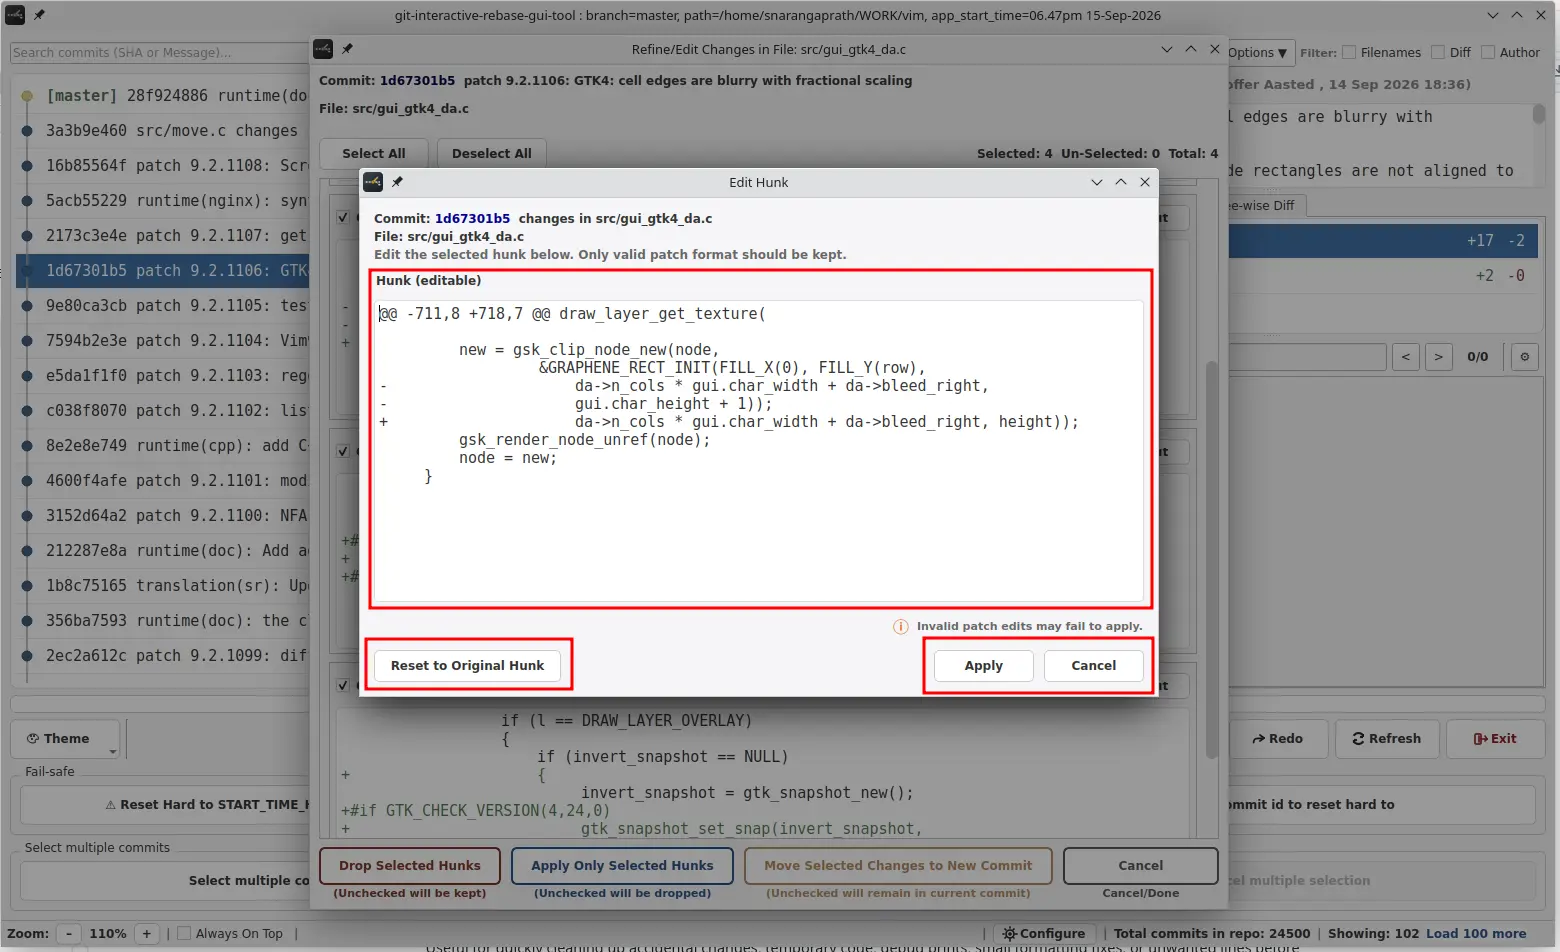
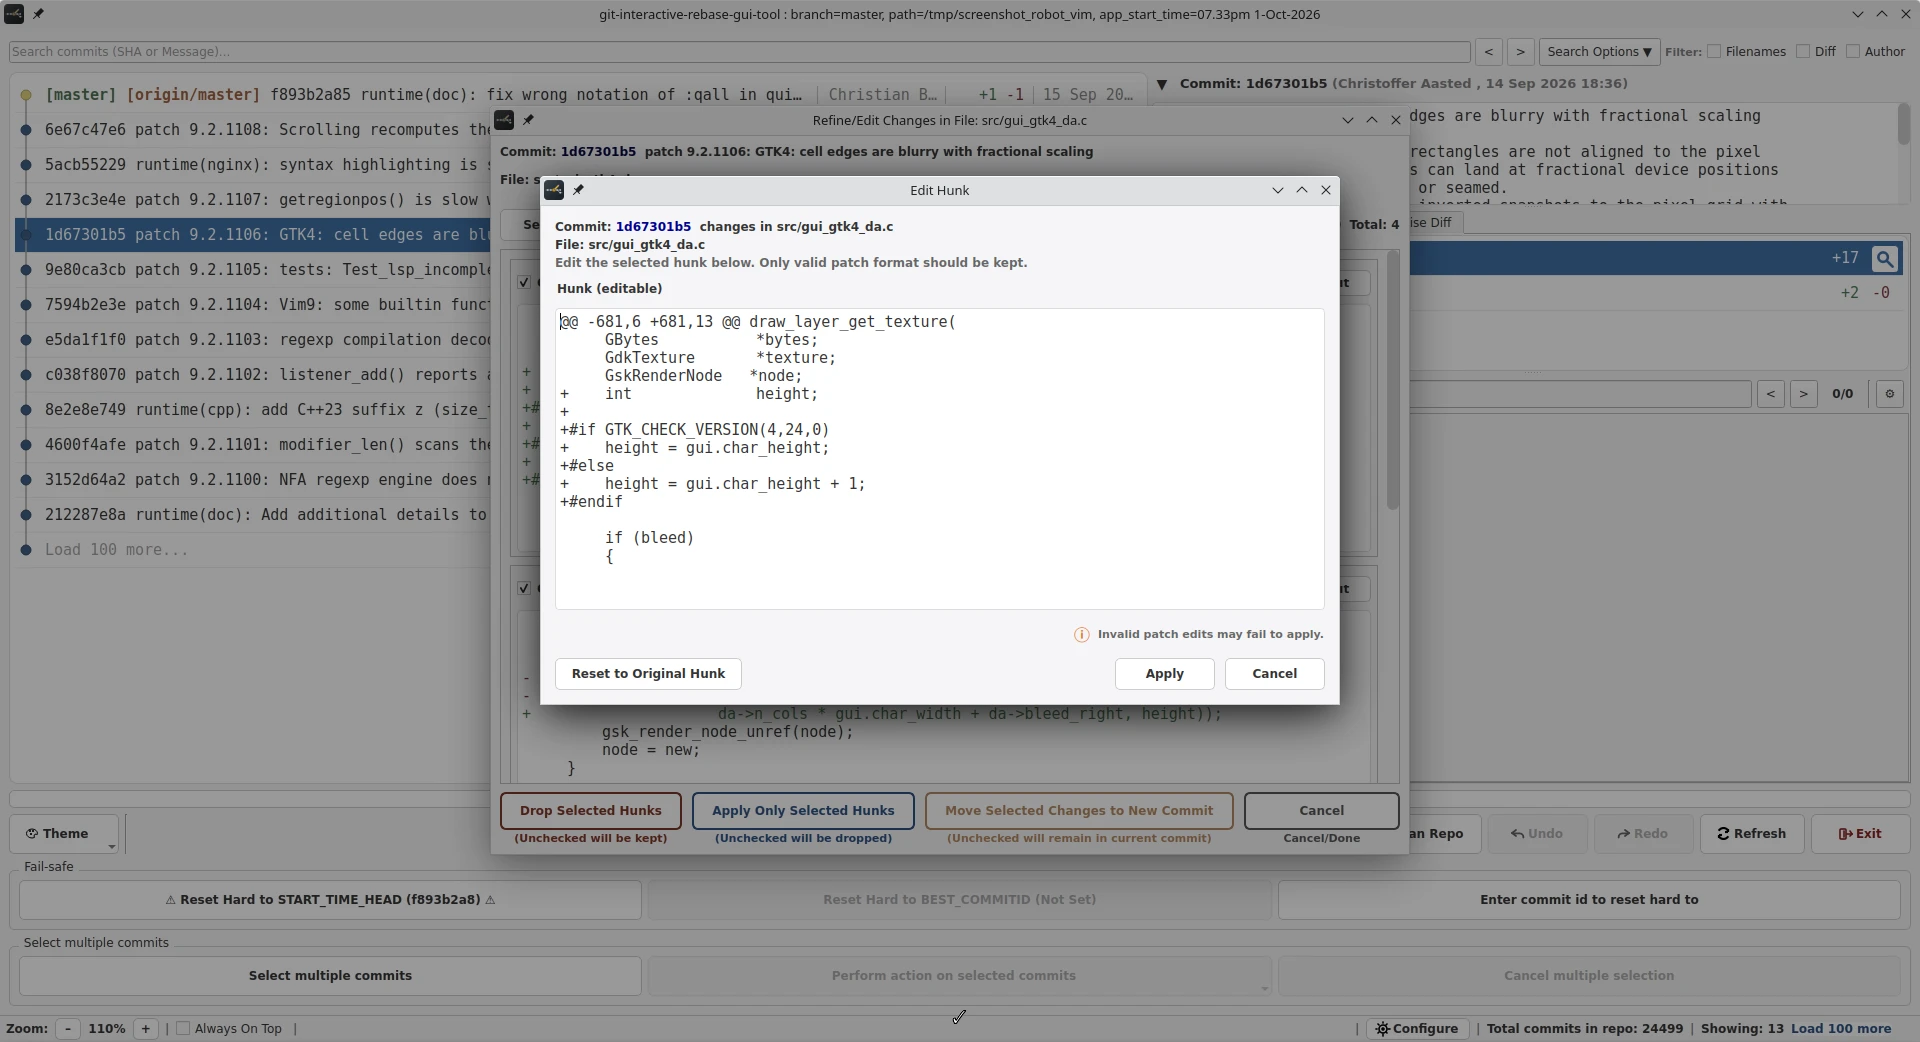
capture: refine-changes-in-file-1.webp, refine-changes-in-file-2.webp

Changed region(s): [[0.0, 0.0, 1.0, 1.0], [0.0, 0.7616, 0.0615, 0.8529], [0.0, 0.8834, 0.0923, 0.9139]]

diff --git a/refine-changes-in-file.py b/refine-changes-in-file.py
@@ -4,6 +4,17 @@ Run it through main.py; it prepares the clone, settings and publishing.
 """
 from capture_lib import Tool, capture, repo
 
+BOXES1 = [
+    {"rect": (791, 204, 744, 246)},
+    {"rect": (1284, 261, 1439, 373)},
+    {"rect": (493, 788, 1406, 847)},
+    ]
+
+BOXES2 = [
+    {"rect": (548, 301, 1333, 620)},
+    {"rect": (546, 647, 756, 698)},
+    {"rect": (1094, 642, 1333, 694)},
+    ]
 
 def main():
     # 1. put the reference clone back to the pinned commit
@@ -42,7 +53,7 @@ def main():
             description="launched with HEAD~13: 13 newest commits, HEAD row selected, Plain Diff",
             size=(1920, 1042),
         )
-        img.draw_box([])
+        img.draw_box(BOXES1)
         img.save("refine-changes-in-file-1.png")
 
         tool.sleep(.3)  # commit list, diff pane and status labels have settled
@@ -58,7 +69,7 @@ def main():
             description="launched with HEAD~13: 13 newest commits, HEAD row selected, Plain Diff",
             size=(1920, 1042),
         )
-        img.draw_box([])
+        img.draw_box(BOXES2)
         img.save("refine-changes-in-file-2.png")
 
 
